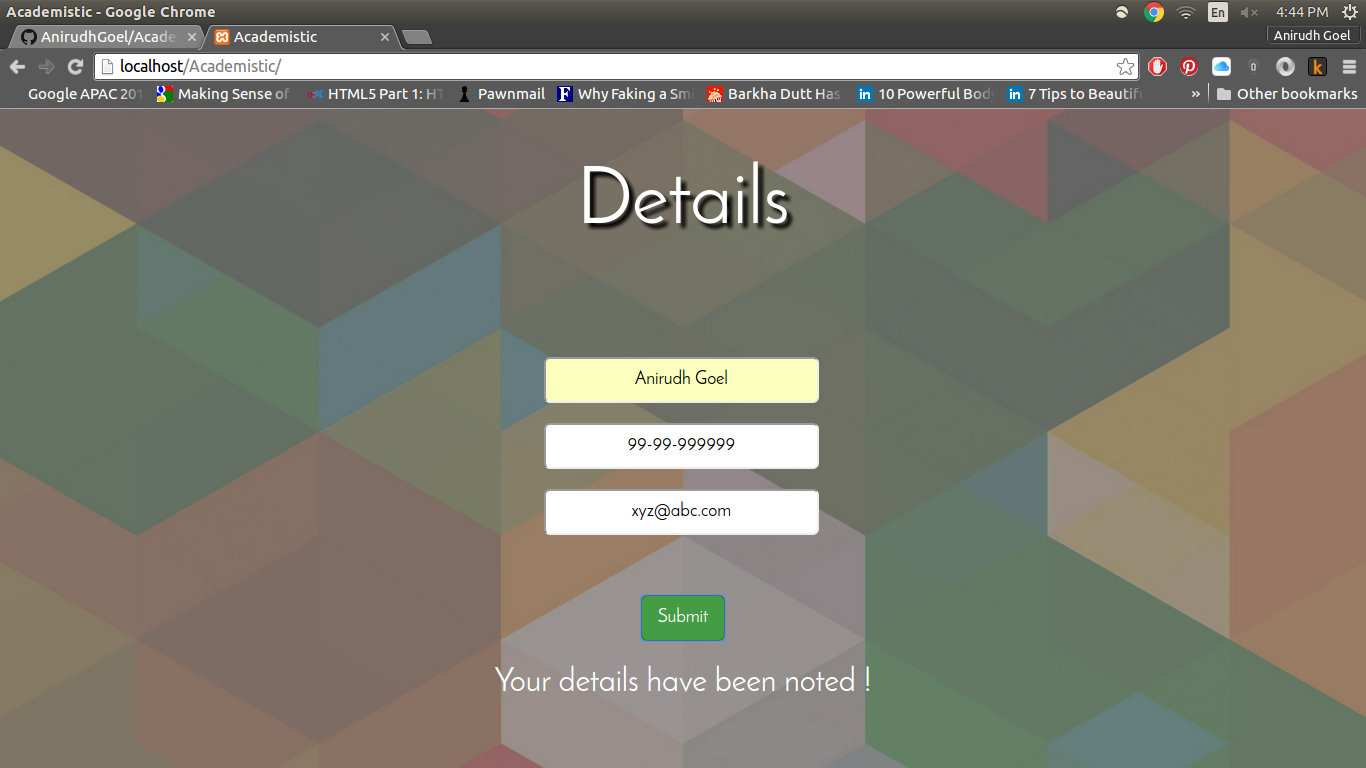
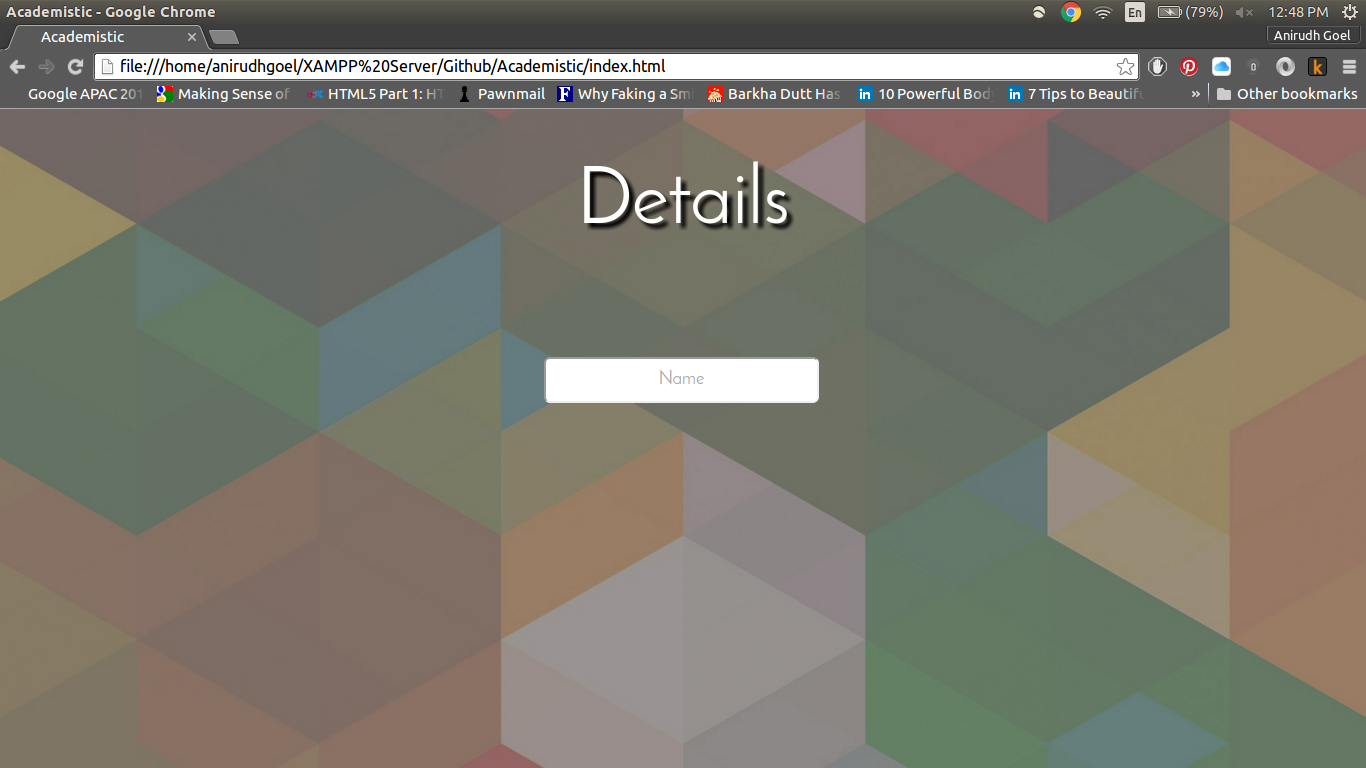
Interactive features added

diff --git a/index.html b/index.html
@@ -13,15 +13,15 @@
 	<div class="container-fluid">
 		<h1>Details</h1>
 		<br><br><br><br><br>
-		<input type="text" id="name" class="input input-lg" placeholder="Name" onkeypress="checkEnter(event)"></input>
+		<input type="text" id="name" class="input input-lg" placeholder="Name" onkeypress="checkEnter(event);" onkeyup="display();"></input>
 		<br><br>
-		<input type="text" id="mobile" class="input input-lg" placeholder="Mobile" onkeypress="checkEnter(event)"></input>
+		<input type="text" id="mobile" class="input input-lg" placeholder="Mobile" onkeypress="checkEnter(event);" onkeyup="display();"></input>
 		<br><br>
-		<input type="text" id="email" class="input input-lg" placeholder="E-Mail" onkeypress="checkEnter(event)"></input>
+		<input type="text" id="email" class="input input-lg" placeholder="E-Mail" onkeypress="checkEnter(event);" onkeyup="display();"></input>
 		
 		<br><br><br><br>
 
-		<input type="submit" onclick="input()" class="btn btn-lg btn-success" value="Submit"></input>
+		<input type="submit" onclick="input();" class="btn btn-lg btn-success" value="Submit" id="submit"></input>
 	</div>
 	<br>
 	<div id="result"></div>

diff --git a/js/index.js b/js/index.js
@@ -1,3 +1,32 @@
+function display() {
+	if(document.getElementById('name').value != "") {
+		$("#mobile").fadeIn("fast", function() {
+			if(document.getElementById('mobile').value != "") {
+				$("#email").fadeIn("fast", function() {
+					if(document.getElementById('email').value != "") {
+						$("#submit").fadeIn("fast");
+					}
+					else {
+						$("#submit").fadeOut("fast");
+					}
+				});
+			}
+			else {
+				$("#submit").fadeOut("fast", function() {
+					$("#email").fadeOut("fast");
+				});
+			}
+		});
+	}
+	else {
+		$("#submit").fadeOut("fast", function() {
+			$("#email").fadeOut("fast", function() {
+				$("#mobile").fadeOut("fast");
+			});
+		});
+	}
+}
+
 function checkEnter(event) {
 	if(event.keyCode === 13) {
 		input();

diff --git a/css/index.css b/css/index.css
@@ -14,20 +14,13 @@ h1 {
 	text-shadow: 5px 5px 5px #000000;
 	color: white;
 }
+#mobile, #email, .btn {
+	display: none;
+}
 .input {
 	text-align: center;
 	color: black;
 	width: 275px;
-}
-.loader {
-	display: none;
-	position: fixed;
-	left: 25%;
-	top: 25%;
-	width: 50%;
-	height: 60%;
-	z-index: 9999;
-	background: url("../img/preloader.gif") center no-repeat #ffffff;
 }
 #result {
 	font-size: 32px;

diff --git a/README.md b/README.md
@@ -2,4 +2,17 @@
 
 There are 3 text fields to get the details from user. The details are accepted using jQuery AJAX. A PHP script mails the details to my Email ID.
 
-<img src="ss/ss1.png" alt="Screenshot 1">
+# Interaction Features
+
+The project has beautiful animations for user ease. Initially only a "Name" input field appears, as the user enters the name, a "Mobile" field appears and when she/he starts entering the mobile number, an "Email" field appears followed by a "Submit" button as user enters the email address. If the user tries to submit the data anywhere in between with the enter key, without filling in all the details an error message is generated. Screenshots for all these features are given below-
+
+<img src="ss/ss1.png" alt="Screenshot 1"><br>
+<img src="ss/ss2.png" alt="Screenshot 2"><br>
+<img src="ss/ss3.png" alt="Screenshot 3"><br>
+<img src="ss/ss4.png" alt="Screenshot 4"><br>
+
+<hr>
+
+If user tries pressing "Enter" key without submitting all the details.
+
+<img src="ss/ss5.png" alt="Screenshot 1">
